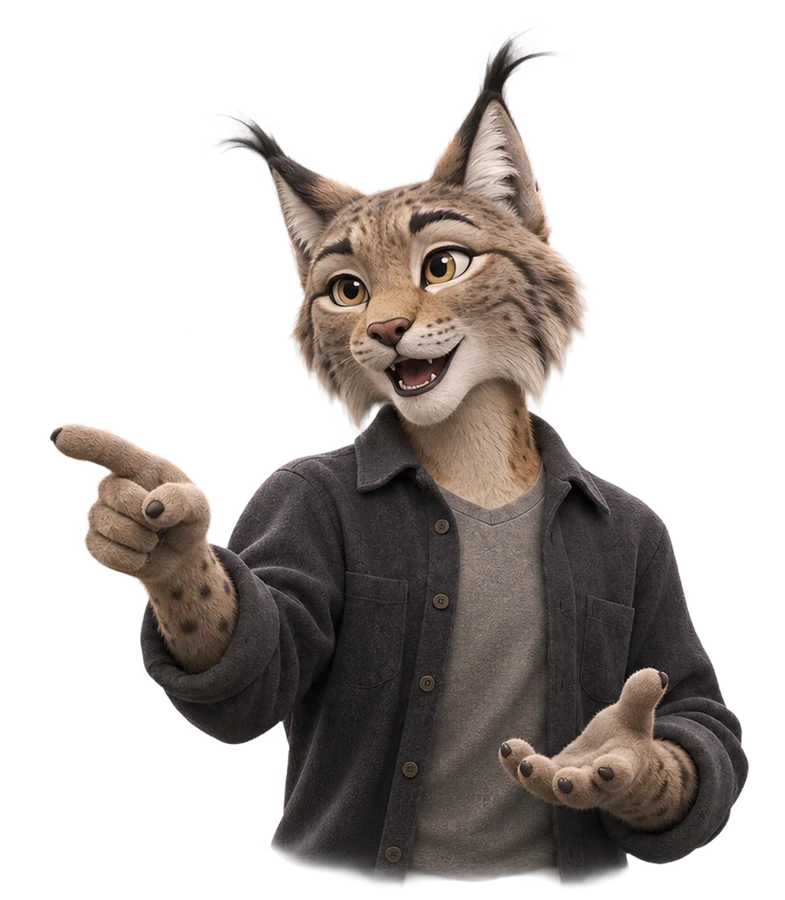
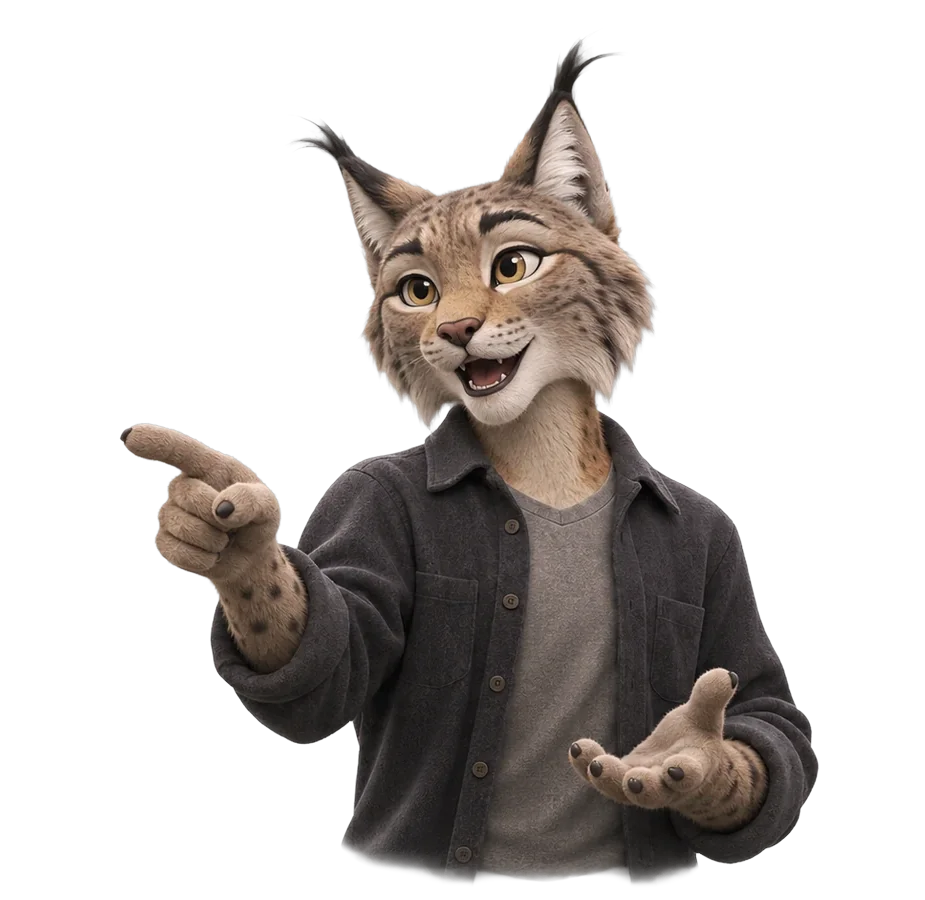
Steady companion II: one transparent canvas per band for companion poses
scripts/normalize_companion_poses.py pads each band's 7 poses unscaled,
bottom-centre aligned onto that band's common canvas (primary 661x900,
middle 925x900, upper 891x900) and re-exports WebP quality 85 with alpha
kept. Artwork sources under design/ untouched. server/tests/
test_companion_canvas.py fails if any pose drifts off its band canvas.

diff --git a/scripts/normalize_companion_poses.py b/scripts/normalize_companion_poses.py
@@ -1,0 +1,63 @@
+"""Pad each band's companion poses onto one common transparent canvas.
+
+Every pose WebP in web/public/character/{,middle/,upper/} is placed,
+unscaled, bottom-centre aligned on its band's common canvas
+(max width x max height across that band's poses) and re-exported as
+WebP (quality 85, alpha kept). After this, all poses within a band have
+identical pixel dimensions, so the avatar <img> (object-fit: contain in
+a fixed box) renders every pose at exactly the same scale and position.
+
+Run from the repo root: python3 scripts/normalize_companion_poses.py
+Idempotent and reproducible: same inputs always give byte-identical
+outputs for a given Pillow version (no timestamps are stored in the
+files; canvas size derives only from the input dimensions).
+
+Never touches the artwork sources under design/ — only the derived
+WebP files served to the page.
+"""
+
+from pathlib import Path
+
+from PIL import Image
+
+ROOT = Path(__file__).resolve().parents[1]
+CHARACTER = ROOT / "web" / "public" / "character"
+
+# Band name -> directory holding that band's 7 pose WebP files.
+BANDS = {
+    "primary": CHARACTER,
+    "middle": CHARACTER / "middle",
+    "upper": CHARACTER / "upper",
+}
+
+POSES = ("greeting", "listening", "speaking", "thinking", "working", "waiting", "pointing")
+
+
+def main() -> None:
+    for band, directory in BANDS.items():
+        files = [(pose, directory / f"{pose}.webp") for pose in POSES]
+        missing = [str(path) for _, path in files if not path.is_file()]
+        if missing:
+            raise FileNotFoundError(f"Band {band!r} is missing poses: {missing}")
+        images = []
+        for pose, path in files:
+            image = Image.open(path)
+            image.load()
+            if image.mode != "RGBA":
+                image = image.convert("RGBA")
+            images.append((pose, path, image))
+        canvas = (max(image.width for _, _, image in images), max(image.height for _, _, image in images))
+        for pose, path, image in images:
+            if (image.width, image.height) == canvas:
+                # Already on the common canvas; re-export anyway so the
+                # encoder settings are uniform across the band.
+                normalized = image
+            else:
+                normalized = Image.new("RGBA", canvas, (0, 0, 0, 0))
+                normalized.paste(image, ((canvas[0] - image.width) // 2, canvas[1] - image.height), image)
+            normalized.save(path, "WEBP", quality=85, method=6)
+        print(f"Band {band}: canvas {canvas[0]}x{canvas[1]}, padded {len(images)} poses.")
+
+
+if __name__ == "__main__":
+    main()

diff --git a/server/tests/test_companion_canvas.py b/server/tests/test_companion_canvas.py
@@ -1,0 +1,34 @@
+"""Companion poses keep one canvas per band, so the avatar never moves.
+
+scripts/normalize_companion_poses.py pads every pose of a band onto that
+band's common canvas (max width x max height, bottom-centre, unscaled).
+This test reads the served WebP files and fails if any pose in a band
+drifts off the common size again (e.g. after a re-export).
+"""
+
+from pathlib import Path
+
+import pytest
+from PIL import Image
+
+CHARACTER = Path(__file__).resolve().parents[2] / "web" / "public" / "character"
+
+BANDS = {
+    "primary": CHARACTER,
+    "middle": CHARACTER / "middle",
+    "upper": CHARACTER / "upper",
+}
+
+POSES = ("greeting", "listening", "speaking", "thinking", "working", "waiting", "pointing")
+
+
+@pytest.mark.parametrize("band", ["primary", "middle", "upper"])
+def test_poses_share_one_canvas_per_band(band):
+    sizes = {}
+    for pose in POSES:
+        path = BANDS[band] / f"{pose}.webp"
+        assert path.is_file(), f"missing pose: {band}/{pose}"
+        with Image.open(path) as image:
+            assert image.mode == "RGBA", f"{band}/{pose} lost its alpha channel"
+            sizes[pose] = image.size
+    assert len(set(sizes.values())) == 1, f"{band} poses differ in canvas: {sizes}"
